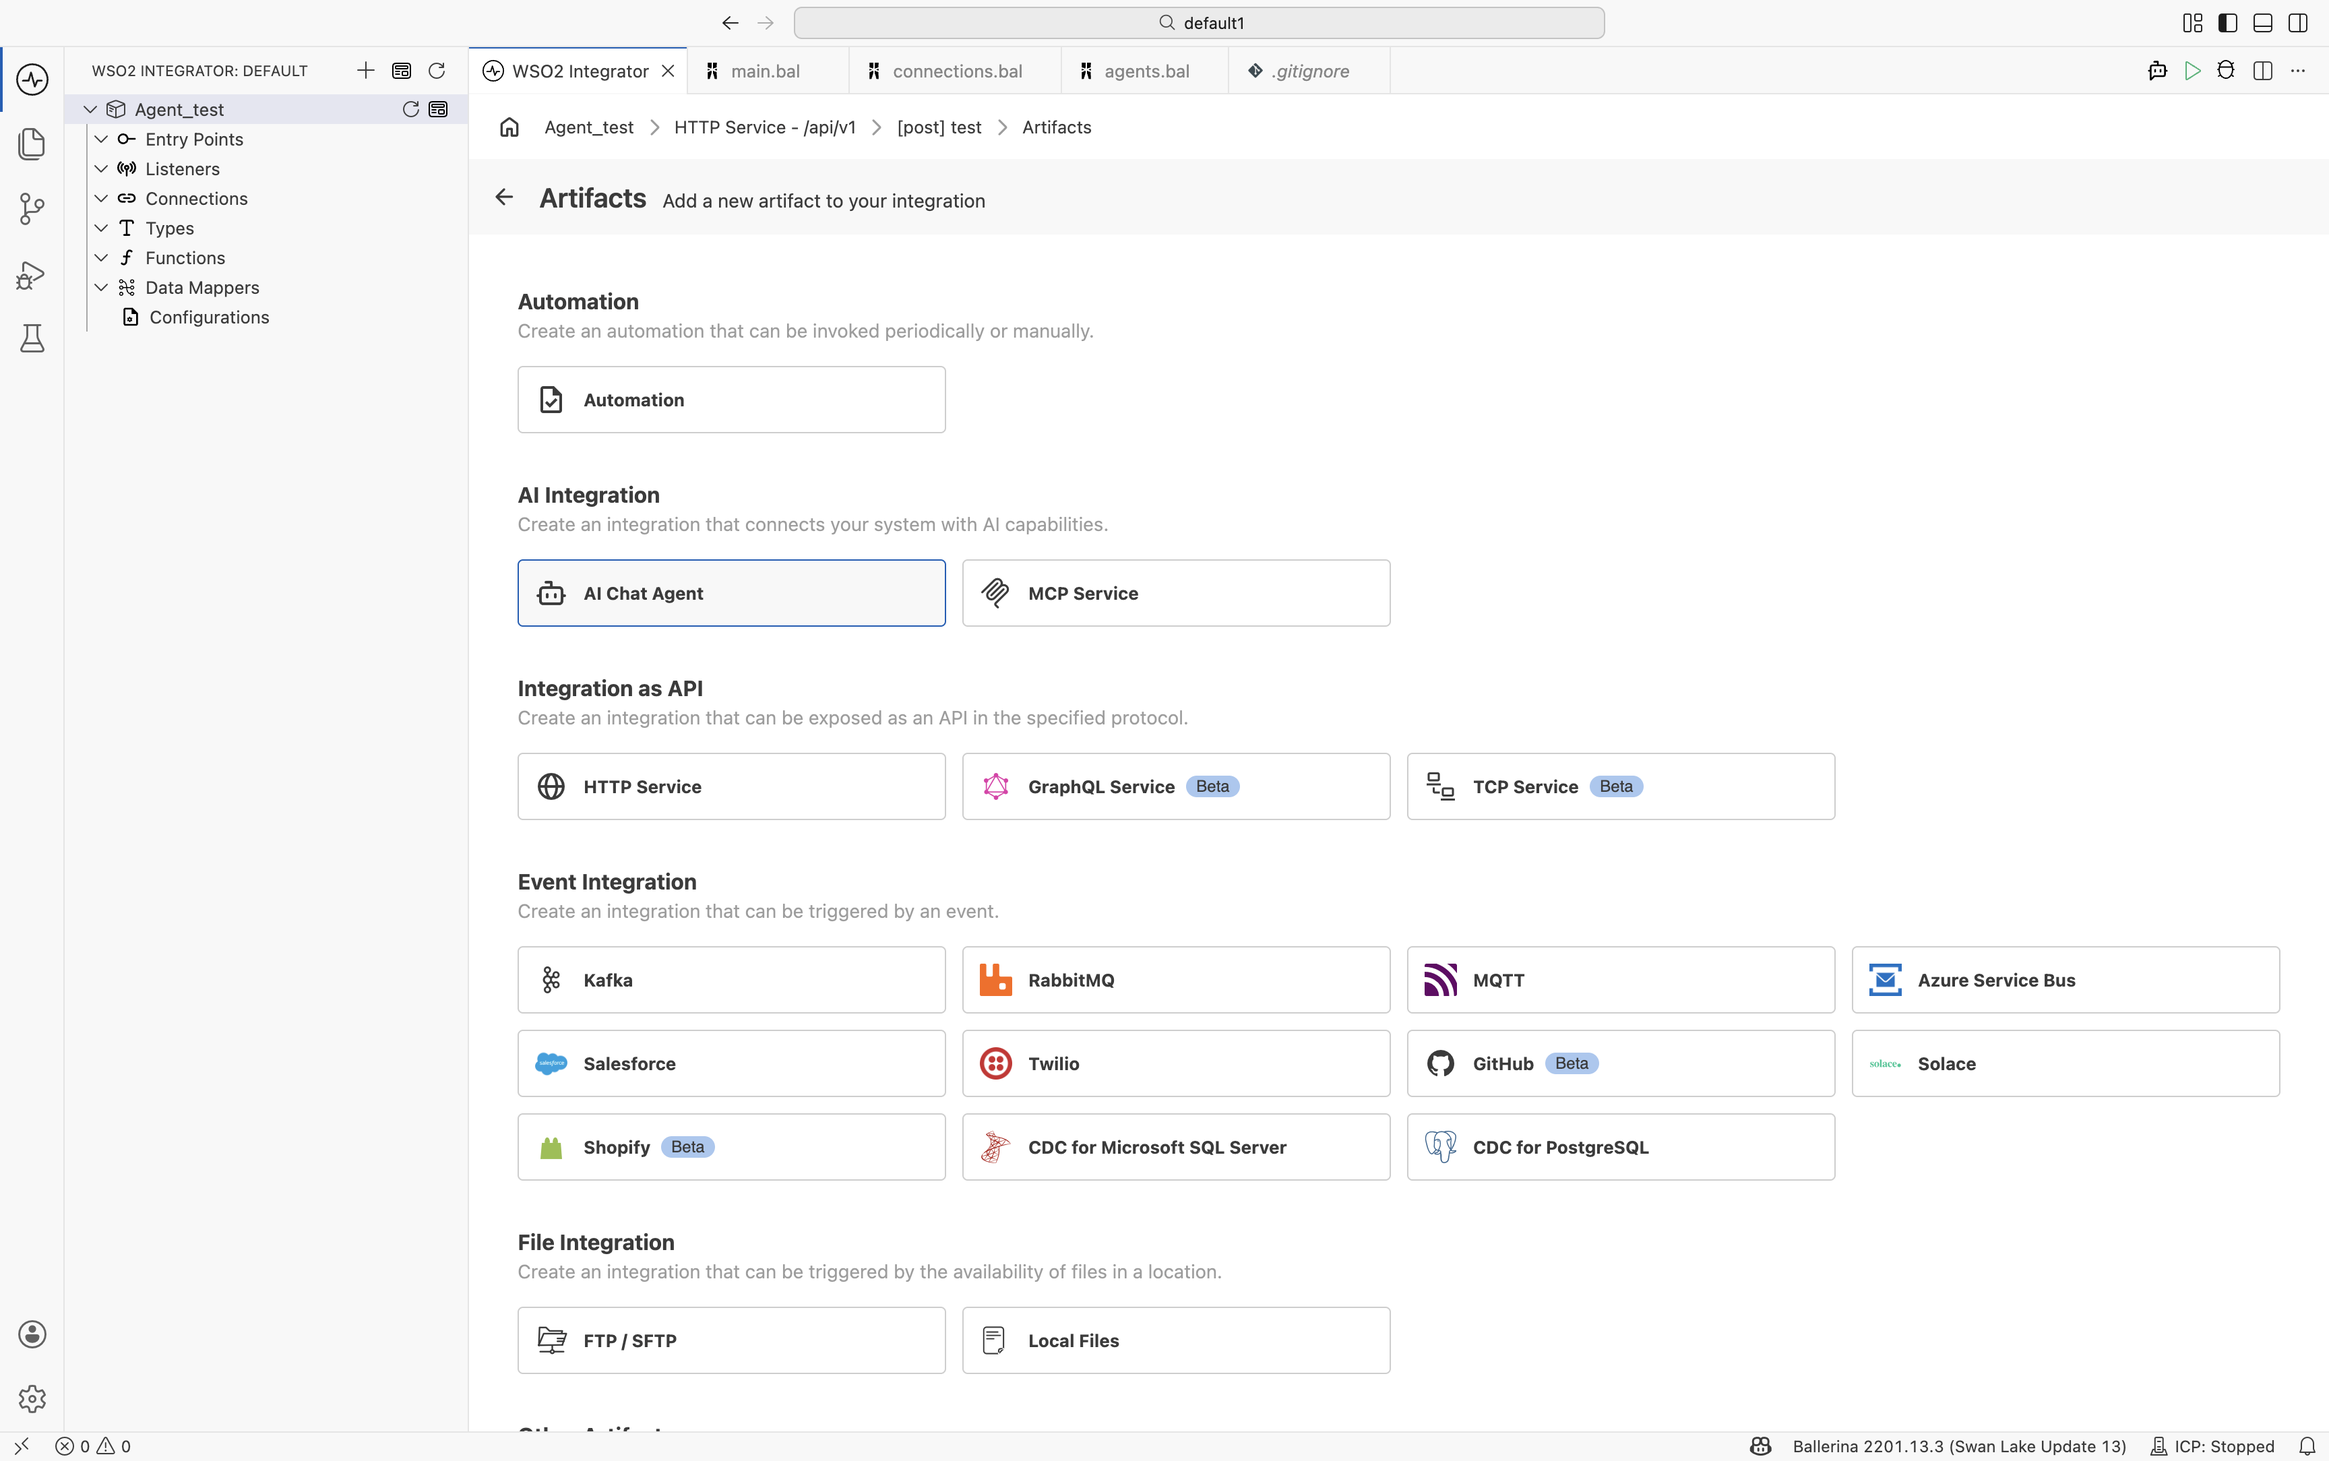
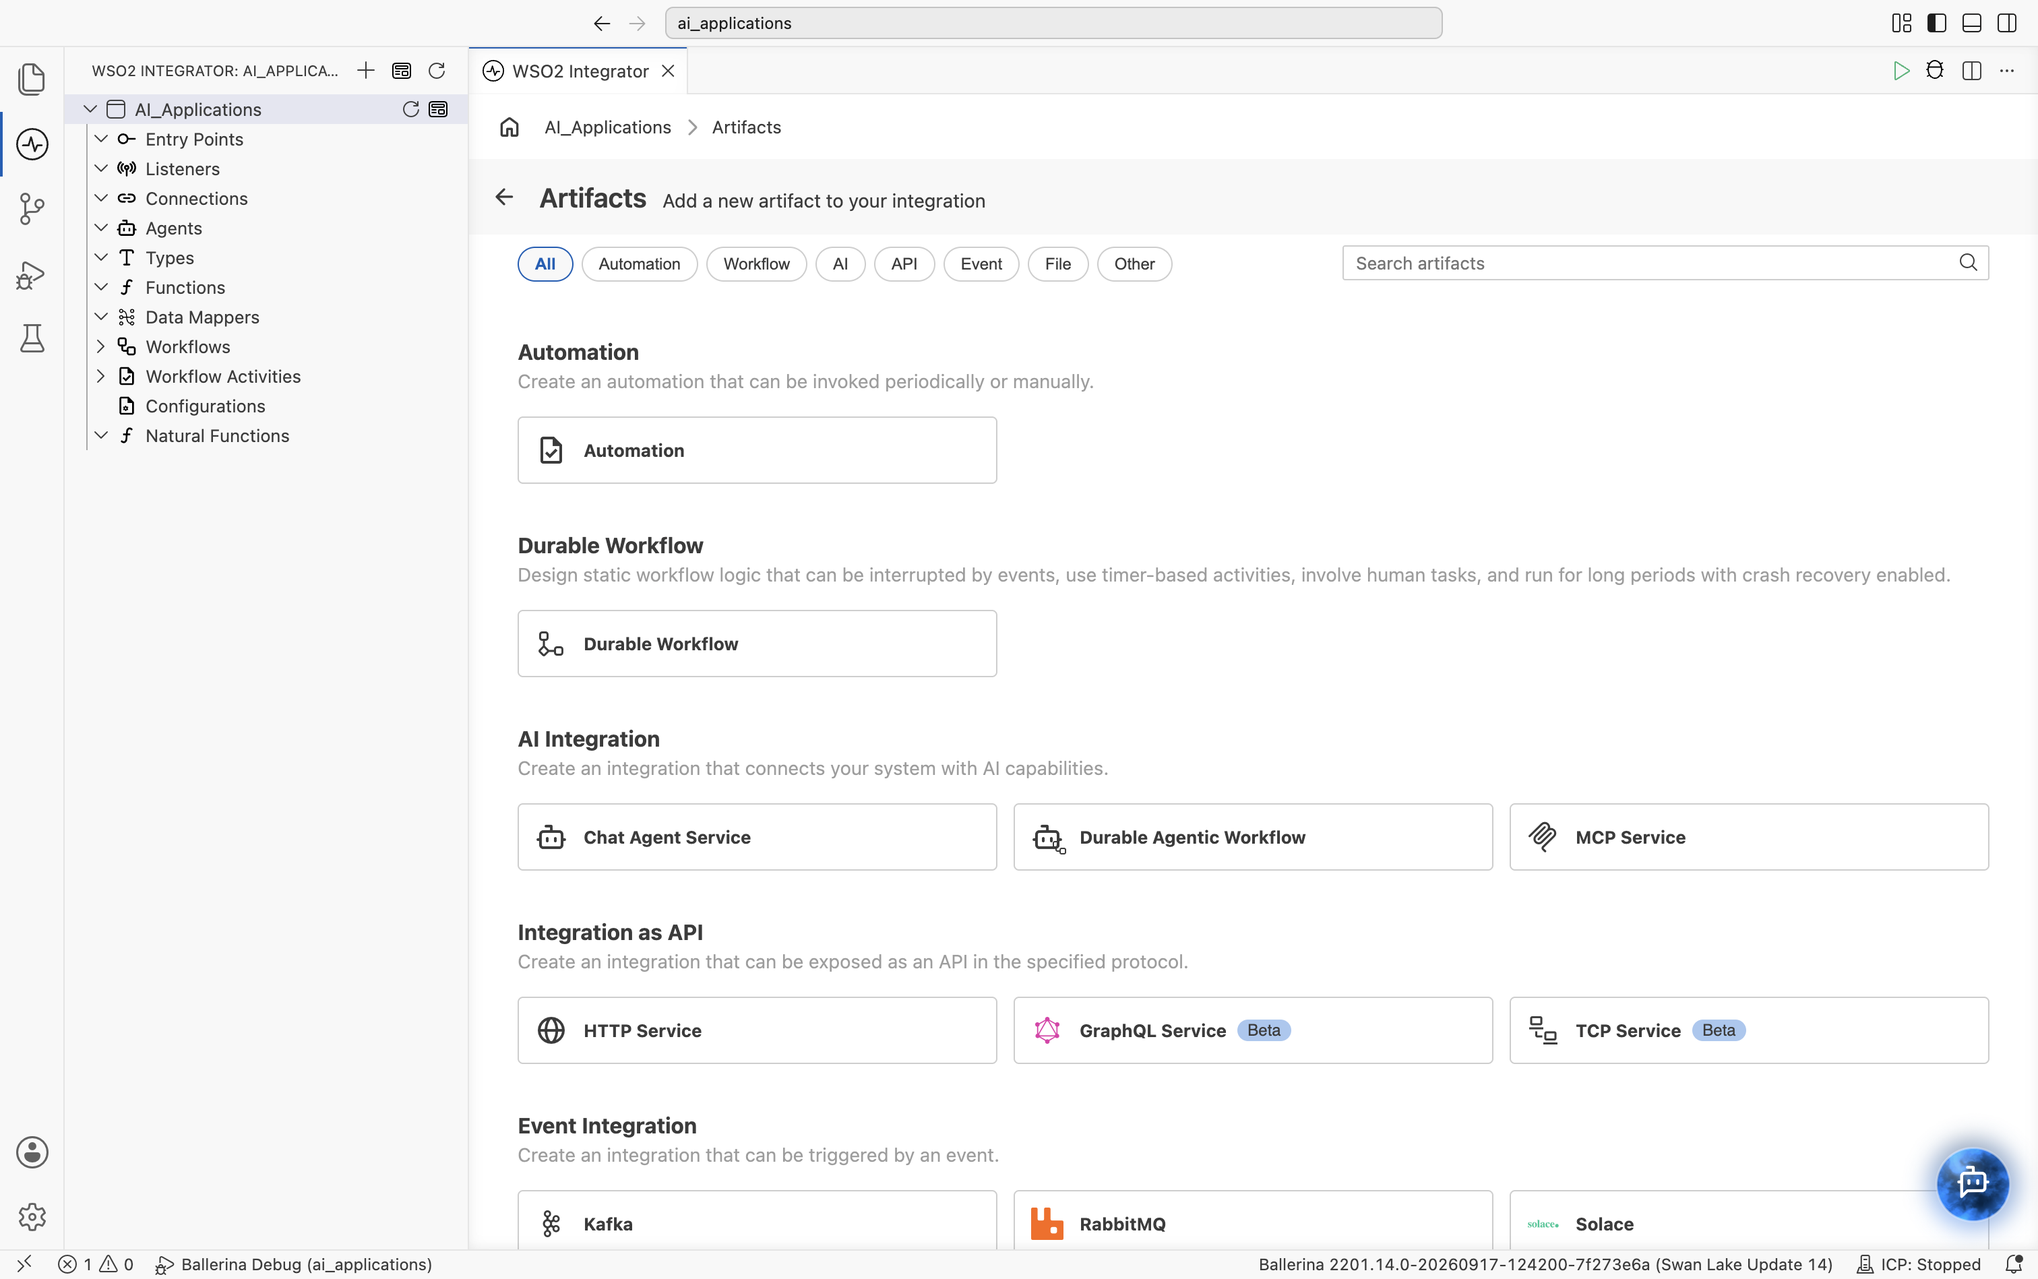
docs(genai): rewrite creating-an-agent.md for the real Chat Agent Service and inline agent flows

diff --git a/en/docs/genai/develop/agents/creating-an-agent.md b/en/docs/genai/develop/agents/creating-an-agent.md
@@ -1,7 +1,7 @@
 ---
 sidebar_position: 2
 title: Creating an Agent
-description: Reference for the AI Chat Agent Wizard in WSO2 Integrator, including agent services, listeners, roles, instructions, query bindings, and response handling.
+description: Reference for creating AI agents in WSO2 Integrator as Chat Agent Services or inline agents, including roles, instructions, query bindings, and response handling.
 ---
 
 import Tabs from '@theme/Tabs';
@@ -13,44 +13,71 @@ WSO2 Integrator supports the creation of AI agents as either **Chat agents** or 
 
 ## Chat agents
 
-Chat agents are AI agents exposed through HTTP REST APIs, allowing users or external systems to send prompts and receive responses powered by large language models (LLMs).
+Chat agents are AI agents exposed through HTTP REST APIs, allowing users or external systems to send prompts and receive responses powered by large language models (LLMs). You create a chat agent from the **Chat Agent Service** artifact.
 
 ## Inline agents
 
-Inline agents can be embedded directly within integration flows, REST APIs, GraphQL resolvers, or backend service logic, and are invoked programmatically as part of workflow execution.
+Inline agents can be embedded directly within integration flows, such as automations, REST APIs, GraphQL resolvers, or backend service logic, and are invoked programmatically as part of the flow.
 
-## Launching the wizard
+## Launching the Artifacts page
 
 1. Open your integration project in WSO2 Integrator.
-2. Click **+ Add Artifact** from the project view, or right-click the project tree.
+2. On the **Design** tab, select **+ Add Artifact** (or **Add Artifact manually** if the project is still empty).
 
 ![Artifacts page in WSO2 Integrator showing all artifact categories.](/img/genai/develop/agents/creating-an-agent/01-artifacts-page-full.png)
 
 ## Create a chat agent
 
-Under **AI Integration**, select **AI Chat Agent**. Enter a **Name** for the agent and click **Create**.
+Under **AI Integration**, select **Chat Agent Service**.
 
-![The empty AI Chat Agent wizard with a Name field and a disabled Create button.](/img/genai/develop/agents/creating-an-agent/02-create-ai-chat-agent-wizard.png)
+1. Configure the agent's model, role, and instructions:
 
-| Field | Required | Description |
-|---|---|---|
-| **Name** | Yes | Identifier for the agent, such as `BlogReviewer`, `SupportAssistant`, or `SalesAdvisor`. The name must start with a letter and contain only letters, numbers, and underscores. |
+    | Field | Required | Description |
+    |---|---|---|
+    | **Role** | Yes | Defines the agent's primary function, for example `Customer Support Assistant`. |
+    | **Instructions** | Yes | Detailed instructions for the agent. |
+    | **Model** | Yes | The model used by the agent. Select an existing model provider connection, or select **Create New Model Provider**. |
+    | **Maximum Iterations** | No | The maximum number of reasoning-action cycles the agent performs to complete a task. Defaults to `INFER_TOOL_COUNT`, which resolves to `max(number of tools, 10)`. |
+    | **Verbose** | No | Whether verbose logging is enabled. Defaults to `false`. |
+    | **Tool Loading Strategy** | No | How tool schemas are loaded into the agent. Defaults to `NO_FILTER`, which loads all tools without filtering. |
+    | **Execute Tool Calls In Parallel** | No | Whether multiple tool calls returned in a single LLM response are executed concurrently or sequentially. Defaults to `true`. |
 
-Enter a name (for example, `blogReviewer`) to enable the **Create** button.
+    ![The empty Create Chat Agent Service form with Role, Instructions, Model, and Maximum Iterations fields.](/img/genai/develop/agents/creating-an-agent/02-chat-agent-service-form-empty.png)
+
+2. Fill in **Role**, **Instructions**, and leave **Model** as the **Default WSO2 Model Provider**.
+
+    ![The Create Chat Agent Service form filled in with Role set to Blog Reviewer, Instructions filled in, and Model set to Default WSO2 Model Provider.](/img/genai/develop/agents/creating-an-agent/03-chat-agent-service-form-filled.png)
+
+3. Scroll down under **Advanced Configurations** to set:
+
+    | Field | Required | Description |
+    |---|---|---|
+    | **Agent Name** | Yes | Identifier for the agent, such as `blogReviewer`, `supportAssistant`, or `salesAdvisor`. |
+    | **Service Base Path** | Yes | The path where this chat service is exposed, for example `/blog-reviewer`. |
+
+4. Select **Create**.
+
+    ![The bottom of the Create Chat Agent Service form with Agent Name set to blogReviewer and Service Base Path set to /blog-reviewer.](/img/genai/develop/agents/creating-an-agent/04-chat-agent-service-name-path.png)
 
 WSO2 Integrator generates the required integration artifacts and displays a progress indicator while configuring the service listener and related components.
 
-When the wizard completes, WSO2 Integrator automatically generates the following:
+When it completes, WSO2 Integrator automatically generates the following:
 
-- An HTTP service
-- A listener endpoint
-- An AI agent
-- An integration flow that handles incoming requests and generates responses
+- An HTTP service with a `POST /chat` resource
+- A listener endpoint (`chatAgentListener`)
+- An AI agent, listed under **Agents**
+- A resource flow that invokes the agent and returns its response
 
 <Tabs>
 <TabItem value="ui" label="Visual Designer" default>
 
-![The AI Agent canvas showing the AI Agent node with its name, an Add Memory button, a role and instructions preview, and a connection to the model provider.](/img/genai/develop/agents/creating-an-agent/03-agent-flow-canvas.png)
+The resource flow shows **Start**, an `agent:run` node bound to a result variable with an **Open Agent** link, then **Return**.
+
+![The chat resource flow showing Start, an agent:run node bound to stringResult with an Open Agent link to blogReviewer, then Return.](/img/genai/develop/agents/creating-an-agent/05-chat-agent-resource-flow.png)
+
+Selecting **Open Agent** (or the agent under **Agents** in the sidebar) opens the agent's own canvas: a single **AI Agent** block showing the agent's name, an **+ Add Memory** button, and a preview of its role and instructions, connected to its model provider.
+
+![The AI Agent canvas showing the AI Agent node with its name, an Add Memory button, a role and instructions preview, and a connection to the model provider.](/img/genai/develop/agents/creating-an-agent/06-agent-canvas.png)
 
 </TabItem>
 
@@ -69,8 +96,9 @@ final ai:Wso2ModelProvider wso2ModelProvider =
 // Agent declaration
 final ai:Agent blogReviewerAgent = check new (
     systemPrompt = {
-        role: string `BlogReviewer`,
-        instructions: string ``
+        role: string `Blog Reviewer`,
+        instructions: string `You review blog drafts and suggest
+            improvements for clarity, tone, and grammar.`
     },
     model = wso2ModelProvider,
     tools = []
@@ -103,22 +131,61 @@ service /blogReviewer on chatAgentListener {
 
 ## Create an inline agent
 
-You can add an inline agent within integration flows, REST APIs, GraphQL resolvers, or backend service logic.
+You can add an inline agent within integration flows, such as automations, REST APIs, GraphQL resolvers, or backend service logic.
 
-1. Create or open an existing integration flow.
-2. In the editor, open the **AI** section in the side panel and select **Agent**.
-3. Click **+ Add Agent** to open the agent creation panel.
+1. Create or open an integration artifact that has a flow editor, for example an **Automation**.
+2. In the flow editor, select **+** to open the **Add Node** panel.
+3. Under **AI**, select **Agent**. *"Create or reuse an Agent."*
 
-![Empty agent creation panel with Role, Instructions, Query, and Result fields.](/img/genai/develop/agents/creating-an-agent/04-inline-agent-creation-form-empty.png)
+    ![Add Node panel with the AI section showing Direct LLM, RAG, and Agent options, with the Agent option highlighted and its tooltip visible.](/img/genai/develop/agents/creating-an-agent/07-automation-empty-flow.png)
 
-4. Configure the **Role** and **Instructions** fields to define the agent’s behavior.
-5. Specify the query or prompt to the agent in the **Query** field. Note that this can also be an expression (e.g., a parameter, a variable, etc.).
-6. Click **Save**.
+    ![The Add Node panel's AI section with the Agent option selected and its "Create or reuse an Agent" tooltip shown.](/img/genai/develop/agents/creating-an-agent/08-add-node-ai-panel.png)
+
+4. The **Agents** panel lists any agents already defined in the project (for example, an agent created by a Chat Agent Service) as reusable options, plus a **+** button to add a new one.
+
+    ![The Agents panel listing the existing blogReviewer agent as a reusable option, with a + button to add a new agent.](/img/genai/develop/agents/creating-an-agent/09-agents-panel-reusable.png)
+
+5. Select **+** to open the **Add Agent** dialog. It offers three ways to add an agent:
+
+    | Option | Description |
+    |---|---|
+    | **Create Agent** | Create a one-off agent instance for this integration only. |
+    | **Create Agent Definition** | Create a reusable agent definition that can be shared and used to create agent instances with the same configuration across projects. |
+    | **Pre-built Agents** | Select from pre-built agents available at the project or organization level. |
+
+    ![The Add Agent dialog with Create Agent, Create Agent Definition, and an empty Pre-built Agents section.](/img/genai/develop/agents/creating-an-agent/10-add-agent-modal.png)
+
+6. Select **Create Agent**. This opens the same **Role**, **Instructions**, **Model**, and advanced configuration fields as the Chat Agent Service form (see [Create a chat agent](#create-a-chat-agent) above), ending with an **Agent Name** field instead of a service base path.
+
+    ![The empty Create Agent form with Role, Instructions, Model, and Maximum Iterations fields.](/img/genai/develop/agents/creating-an-agent/11-create-agent-form-empty.png)
+
+7. Fill in **Role**, **Instructions**, and **Agent Name**, then select **Create Agent**.
+
+    ![The Create Agent form scrolled down to Verbose, Tool Loading Strategy, Execute Tool Calls In Parallel, and the Agent Name field.](/img/genai/develop/agents/creating-an-agent/12-create-agent-form-name.png)
+
+    This adds the new agent under **Agents** in the sidebar. Immediately after, WSO2 Integrator opens the **AI Agent** node configuration panel to bind this specific invocation of the agent in the flow:
+
+    | Field | Required | Description |
+    |---|---|---|
+    | **Query** | Yes | A query to start a new turn (`string`/`Prompt`), or a `Resume` to continue a paused run. |
+    | **Session ID** | No | The ID associated with the agent memory. Defaults to `sessionId`. |
+    | **Context** | No | Additional context that can be used during agent tool execution. Defaults to `new()`. |
+    | **Result** | Yes | Name of the result variable. |
+
+8. Set **Query**. If there's no existing input variable to bind, leave **Query** in **Prompt** mode and type a literal string, for example `Summarize this: WSO2 Integrator is a low-code platform for building APIs, integrations, and AI agents.` Leave **Result** at its default and select **Save**.
+
+    ![The AI Agent node panel with Query set to a literal prompt string and Result set to stringResult.](/img/genai/develop/agents/creating-an-agent/13-ai-agent-node-panel-filled.png)
 
 <Tabs>
 <TabItem value="ui" label="Visual Designer" default>
 
-![Agent creation panel filled in with Role, Instructions, and Query set to the user's input.](/img/genai/develop/agents/creating-an-agent/05-inline-agent-creation-form-filled.png)
+This adds an `agent:run` node to the flow, bound to the result variable, with an **Open Agent** link back to the new agent's own canvas — the same pattern as a Chat Agent Service's resource flow.
+
+![Flow editor showing the agent:run node bound to stringResult with an Open Agent link to taskSummarizer, between Start and Error Handler.](/img/genai/develop/agents/creating-an-agent/14-inline-agent-node-in-flow.png)
+
+Selecting **Open Agent** opens the agent's own canvas: an **AI Agent** block showing its name, an **+ Add Memory** button, and a preview of its role and instructions.
+
+![The taskSummarizer AI Agent canvas showing its name, an Add Memory button, and a role and instructions preview.](/img/genai/develop/agents/creating-an-agent/15-inline-agent-canvas.png)
 
 </TabItem>
 
@@ -126,71 +193,38 @@ You can add an inline agent within integration flows, REST APIs, GraphQL resolve
 
 ```ballerina
 import ballerina/ai;
-import ballerina/log;
 
 // Default model provider
 final ai:Wso2ModelProvider aiWso2modelprovider =
     check ai:getDefaultModelProvider();
 
 // Agent declaration
-final ai:Agent aiAgent = check new (
+final ai:Agent taskSummarizerAgent = check new (
     systemPrompt = {
-        role: string `Task Assistant`,
-        instructions: string `You are a helpful assistant for
-            managing a to-do list. You can manage tasks and
-            help users plan their schedules.`
+        role: string `Task Summarizer`,
+        instructions: string `Summarize the input text in
+            one sentence.`
     },
     model = aiWso2modelprovider
 );
 
-// Main
 public function main() returns error? {
-    while true {
-        string userInput = io:readln("User (or 'exit' to quit): ");
-        if userInput == "exit" {
-            break;
-        }
-        // Pass the user input to the agent and get a response.
-        string response = check aiAgent.run(userInput);
-        io:println("Agent: ", response);
-    }
+    string stringResult = check taskSummarizerAgent.run(
+        "Summarize this: WSO2 Integrator is a low-code " +
+        "platform for building APIs, integrations, and AI agents."
+    );
 }
 ```
 
 </TabItem>
 </Tabs>
 
-After generation, you are directed to the integration canvas where you can configure the following aspects of the agent:
+After creating either kind of agent, you can configure:
 
-- [Agent behavior, including role, instructions, query, and input/output bindings](./creating-an-agent.md#configure-agent-behavior)
-- [Model provider](../components/model-providers.md)
-- [Tool integration](./tools.md)
-- [Memory configuration](./memory.md)
+- [Tools](./tools.md)
+- [Memory](./memory.md)
+- [Identity & access management](./identity-and-access-management.md)
 - [Observability and tracing](./observability.md)
-
-## Configure agent behavior
-
-Use the AI agent node configuration panel to customize how the agent behaves and responds to requests.
-
-Click the `AI Agent` node to open the configuration panel and update the following configurations.
-
-| Section | Description |
-|---|---|
-| **Role** | Defines the primary responsibility or persona of the agent. |
-| **Instructions** | Specifies the behavior guidelines and operational instructions that the agent should follow while responding. |
-| **Advanced Configuration** | Provides additional runtime and execution settings for the agent. |
-| **Result** | Defines the output or response generated by the agent after execution. |
-
-### Advanced configuration
-
-| Section | Description |
-|---|---|
-| **Maximum Iterations** | Defines the maximum number of reasoning or execution cycles the agent can perform before returning a response. |
-| **Verbose** | Enables detailed execution logs and intermediate reasoning information for debugging and observability purposes. |
-| **Tool Loading Strategy** | Determines how tools are discovered and loaded by the agent during execution. |
-| **Agent Credential** | Configures the credentials or authentication details used by the agent when accessing external systems or tools. |
-| **Context** | Defines contextual information that is passed to the agent during execution. |
-| **Type Descriptor** | Specifies the expected structure or type information for agent inputs and outputs. |
 
 ## What's next
 
